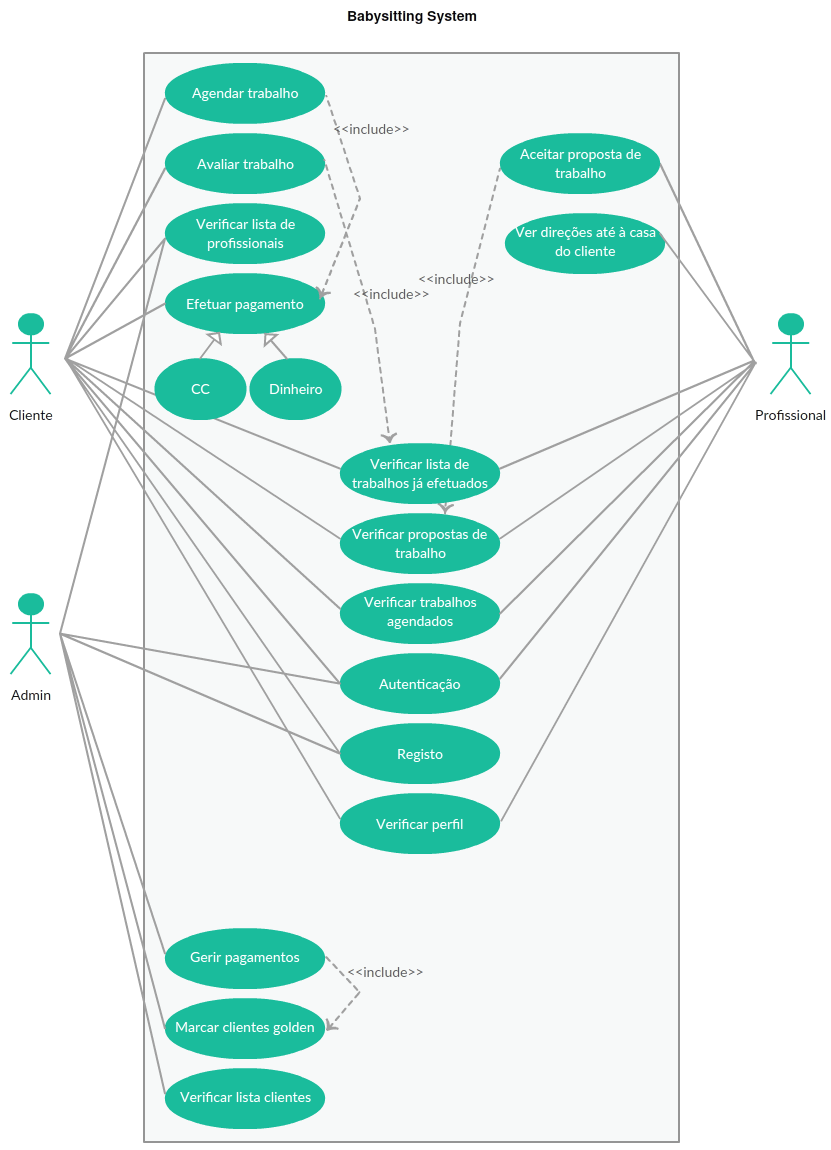
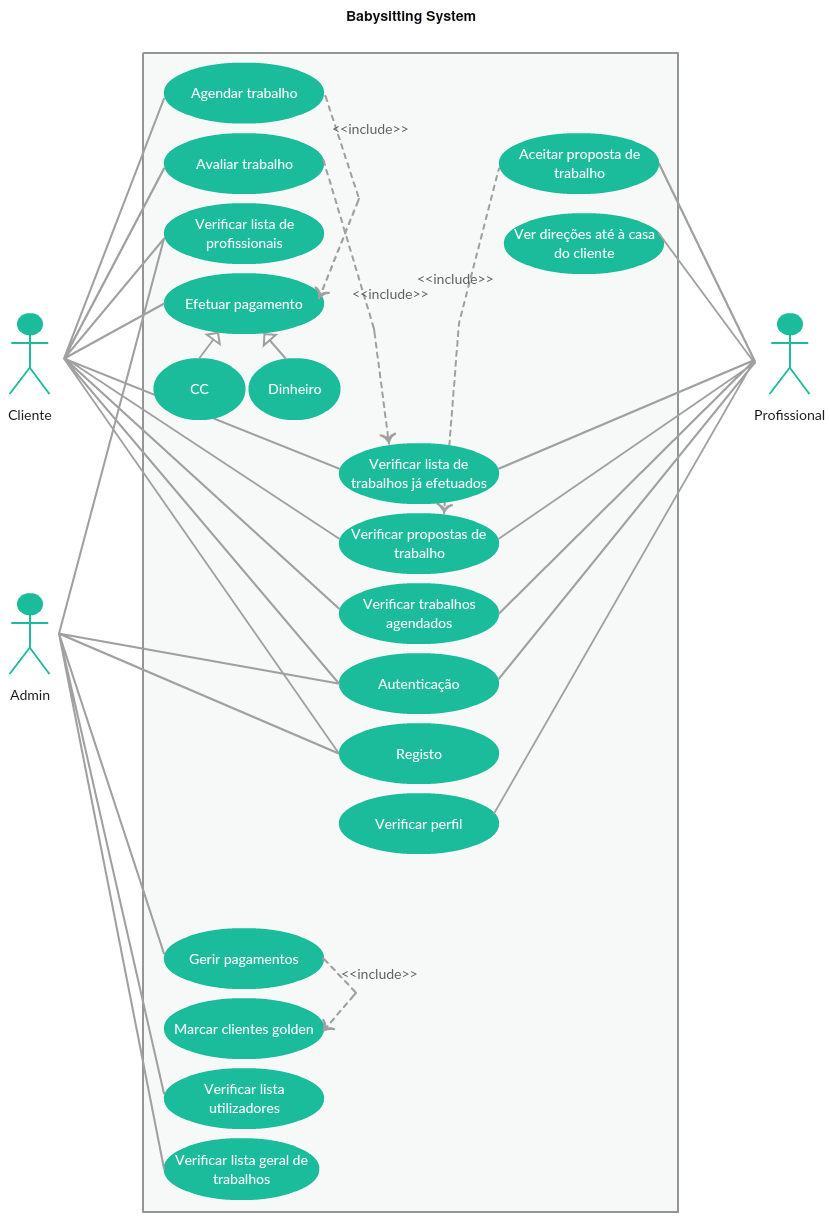
Changed requirements, useCase diagram and use case specification

diff --git a/II Fase/README.md b/II Fase/README.md
@@ -10,28 +10,38 @@
 * O utilizador deve poder consultar a lista de profissionais existentes no sistema.
 
 #### Especificação de requisitos de sistema
-* O sistema mostra a lista dos profissionais registados no sistema, bem como a disponibilidade e seus ratings;
+* O sistema mostra a lista dos profissionais registados no sistema, bem como os seus rankings e horário de trabalho (turno);
 
-* O sistema disponibilizará a lista dos profissionais registados no sistema ordenados por rating ou por número de trabalhos prestados;
+* O sistema disponibilizará a lista dos profissionais registados no sistema ordenados por rating, anos de trabalho ou número de serviços prestados;
 
 * Por profissional, deverão ser fornecidos pelo sistema alguns dados pessoais.
 
-### Agendar trabalho (com base na lista do site) (nota: cada tipo de serviço já terá um preço definido pelo infantario para questoes de simplificaçao)
+### Agendar trabalho (nota: cada tipo de serviço já terá um preço definido pelo infantario para questoes de simplificaçao --- TURNOS M T N MANHA(8-16) TARDE(16-24) NOITE(24-8))
 #### Definição de requisitos de utilizador
-* O utilizador deve poder agendar um trabalho, com base na lista de profissionais.
+* O utilizador deve poder agendar um trabalho, com base na data, hora e morada requerida, e com base na lista de profissionais disponíveis para a hora mencionada.
+
+* O utilizador terá à sua disposição um conjunto de serviços extra que poderá, ou não, optar por requerir, acrescendo ao preço total do trabalho.
 
 #### Especificação de requisitos de sistema
+* O sistema deve permitir selecionar as datas em que o serviço irá ser realizado, assim como a hora desejada para o mesmo ser realizado;
+* O sistema deve recorrer à API externa do Bing Maps para conhecer a localização do utilizador ou então obriga a que a localização seja introduzida manualmente;
+* Deverá autorizar a inserção de serviços complementares por parte do utilizador, para especificar algumas exigências do mesmo no que toca ao serviço;
 * O sistema deve permitir ao utilizador selecionar o profissional que pretende;
 * O sistema deve permitir ao utilizador verificar o custo do agendamento, antes de finalizar a operação, que será debitado depois do profissional aceitar;
-* O sistema deve permitir selecionar as datas em que o serviço irá ser realizado;
-* O sistema deve recorrer à API externa do Bing Maps para conhecer a localização do utilizador ou então obriga a que a localização seja introduzida manualmente;
-* Deverá autorizar a inserção de observações por parte do utilizador, para especificar algumas exigências do mesmo no que toca ao serviço;
 * O sistema deverá permitir que seja mandada uma proposta de serviço devidamente especificada ao profissional, que, posteriormente, poderá aceitar ou recusar.
-* (Insere data, hora, rua e localidade. na proxima pagina, vao ser mostrados os profissionais disponiveis para aquele turno, conta a hora de inicio. TURNOS M T N MANHA(8-16) TARDE(16-24) NOITE(24-8) )
 
-### Avaliar trabalho (nota1: se vai avaliar trabalho, tem q ter área de trabalhos passados. nota2: avaliaçao parametrizada, não deixar cliente inserir número à sorte (interface))
+
+### Verificar trabalhos anteriores
 #### Definição de requisitos de utilizador
-* O utilizador deve poder avaliar um trabalho de um profissional.
+* O utilizador deve conseguir aceder a informação detalhada de serviços já realizados anteriormente.
+
+#### Especificação de requisitos de sistema
+* O sistema deverá permitir observar uma listagem de todos os trabalhos realizados anteriormente à data de um cliente específico.
+
+
+### Avaliar trabalho (nota1: se vai avaliar trabalho, tem q ter área de trabalhos passados. nota2: avaliaçao decimal, nao inteira)
+#### Definição de requisitos de utilizador
+* O utilizador deve poder avaliar um trabalho, já realizado, de um profissional.
 
 #### Especificação de requisitos de sistema
 * O sistema deve mostrar os parâmetros classificativos essenciais à avaliação e deve permitir que o utilizador os consiga preencher;
@@ -39,7 +49,7 @@
 
 ### Realizar pagamento (ao infantário, não ao babysitter)
 #### Definição de requisitos de utilizador
-* O utilizador deve poder realizar o pagamento do serviço (em dinheiro ou online), antes da realização do mesmo (depois de confirmado o agendamento).
+* O utilizador deve poder realizar o pagamento do serviço (em dinheiro ou online (cartão)), antes da realização do mesmo, e depois de confirmado o agendamento).
 
 #### Especificação de requisitos de sistema
 * O sistema deverá permitir que seja elaborado um método de pagamento (online), que será sempre a favor do infantário (que acordará depois o pagamento com os respectivos profissionais). Este método é utilizado aquando do agendamento do trabalho.
@@ -53,6 +63,33 @@
 * O sistema deverá permitir marcar os clientes Golden com o referido estatuto, para futuros descontos em agendamentos.
 
 
+### Verificar trabalhos agendados
+#### Definição de requisitos de utilizador
+* O utilizador poderá analisar os trabalhos agendados, com o objetivo de verificar os detalhes de agendamento.
+
+#### Especificação de requisitos de sistema
+* O sistema deverá permitir a disponibilização de uma lista de serviços de babysitting agendados, com os respetivos detalhes.
+
+
+### Verificar trabalhos propostos
+#### Definição de requisitos de utilizador
+* O utilizador deve poder analisar os trabalhos propostos (ainda não aceites), com o intuito de verificar os detalhes de agendamento (hora, data, ...), ou até cancelar o mesmo.
+
+#### Especificação de requisitos de sistema
+* O sistema deverá permitir a disponibilização de uma lista de serviços de babysitting propostos, juntamente com os respetivos detalhes, e permitir a opção de cancelamento do mesmo.
+
+
+### Verificar perfil
+#### Definição de requisitos de utilizador
+* O utilizador deve poder verificar o seu perfil, que deverá conter a informação pessoal inserida aquando do registo, assim como as listagens de trabalhos propostos, agendados e já realizados.
+
+#### Especificação de requisitos de sistema
+* O sistema deverá fornecer o perfil de utilizador completo e intuitivo.
+
+
+
+
+
 
 
 
@@ -60,7 +97,7 @@
 
 ### Verificar perfil
 #### Definição de requisitos de utilizador
-* O utilizador deve poder verificar e alterar o seu perfil.
+* O utilizador deve poder verificar e alterar o seu perfil, no qual deverá constar a sua informação pessoal, assim como as listagens de trabalhos propostos, agendados e já realizados.
 
 #### Especificação de requisitos de sistema
 * O sistema deverá fornecer o perfil de utilizador completo, com suporte à edição dos dados e armazenamento de determicadas alterações.
@@ -68,7 +105,7 @@
 
 ### Verificar propostas de trabalhos
 #### Definição de requisitos de utilizador
-* O utilizador deverá ser capaz de consultar a lista de propostas de novos trabalhos.
+* O utilizador deverá ser capaz de consultar a lista de propostas de novos trabalhos, com o intuito de os aceitar ou recusar.
 
 #### Especificação de requisitos de sistema
 * O sistema deve fornecer uma lista de propostas de serviços, com a opção de recusa ou aceitamento.
@@ -79,7 +116,7 @@
 * O utilizador deve poder verificar os trabalhos agendados.
 
 #### Especificação de requisitos de sistema
-* O sistema deverá fornecer a lista de trabalhos agendados, juntamente com toda a informaçoa pertinente (data, horário, observações, localização)
+* O sistema deverá fornecer a lista de trabalhos agendados, juntamente com toda a informaçoa pertinente (data, horário, localização e possível realização de serviços extra)
 
 
 ### Ver direções até casa do cliente
@@ -87,7 +124,18 @@
 * O utilizador deve poder ver direções até à casa do cliente. Deve também ser apresentado um mapa com representativo da morada. Para além disso, deve poder visualizar a trajetória até à residência do cliente.
 
 #### Especificação de requisitos de sistema
-* O sistema deve recorrer-se da API externa disponibilizada pelo Bing Maps de forma a representar a localização do cliente, bem como a trajetória até a este.
+* O sistema deve recorrer-se da API externa disponibilizada pelo Bing Maps de forma a representar a localização do cliente, bem como a trajetória até este.
+
+
+### Verificar trabalhos anteriores
+#### Definição de requisitos de utilizador
+* O utilizador deve conseguir aceder a informação detalhada de serviços já realizados anteriormente, onde, para além da informação do mesmo, poderá verificar a sua avaliação.
+
+#### Especificação de requisitos de sistema
+* O sistema deverá permitir observar uma listagem de todos os trabalhos realizados anteriormente à data de um profissional específico, bem como a sua avaliação.
+
+
+
 
 
 
@@ -96,11 +144,15 @@
 
 ### NOTA 1: 
 * Admin, profissional e cliente podem fazer login.
-* Admin regista profissionais e a ele próprio.
-* Cliente pode registar-se
+* Admin regista profissionais (e ele próprio).
+* Cliente pode registar-se.
 
 ### NOTA 2: 
-* O admin já vê as listas todas de clientes, profissionais, serviços, ...
+* O admin já vê as listas todas de clientes, profissionais, serviços, ... -> Generalizar num só use case e requisito -> Generalizar trabalhos também num só use case e requisito
+
+### NOTA 3:
+* O login é geral às três entidades, acrescentar nas de cima. Acrescentar também o registo no cliente.
+
 
 ### Registo no sistema
 #### Definição de requisitos de utilizador
@@ -135,3 +187,19 @@
 
 #### Especificação de requisitos de sistema
 * O sistema disponibilizará a lista de serviços já aceites, juntamente com os detalhes do mesmo.
+
+
+### Verificar lista de utilizadores do sistema
+#### Definição de requisitos de utilizador
+* O utilizador deverá poder ver e gerir a lista de utilizadores do sistema.
+
+#### Especificação de requisitos de sistema
+* O sistema disponibilizará a lista de utilizadores, juntamente com detalhes dos mesmo.
+
+
+### Verificar lista geral de trabalhos
+#### Definição de requisitos de utilizador
+* O utilizador deverá poder verificar e gerir a lista de trabalhos geral - já efetuados, agendados e propostos.
+
+#### Especificação de requisitos de sistema
+* O sistema disponibilizará a lista de serviços, juntamente com detalhes dos mesmos.
